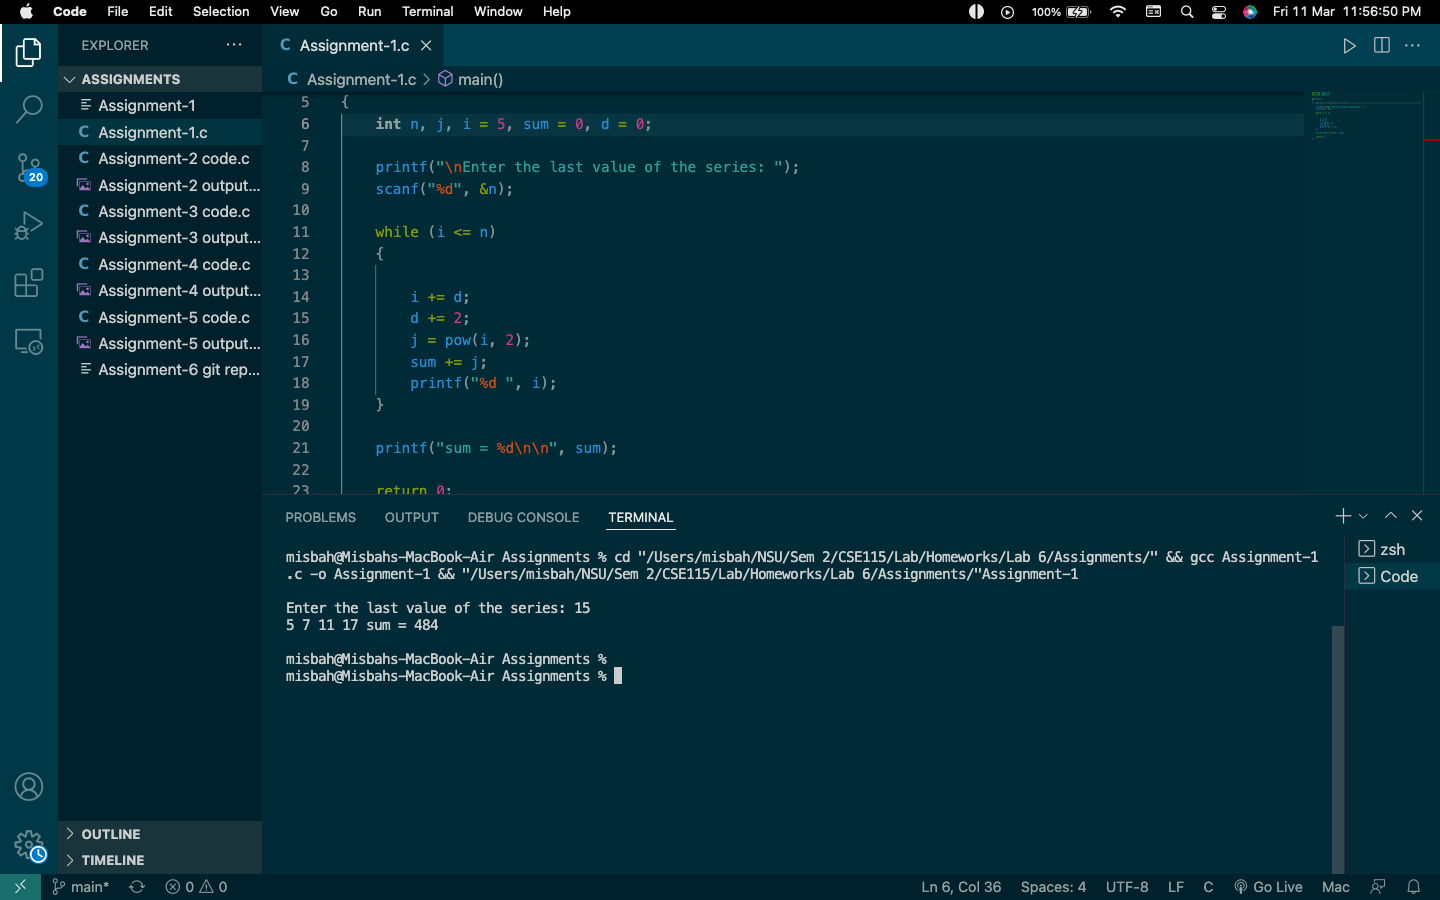
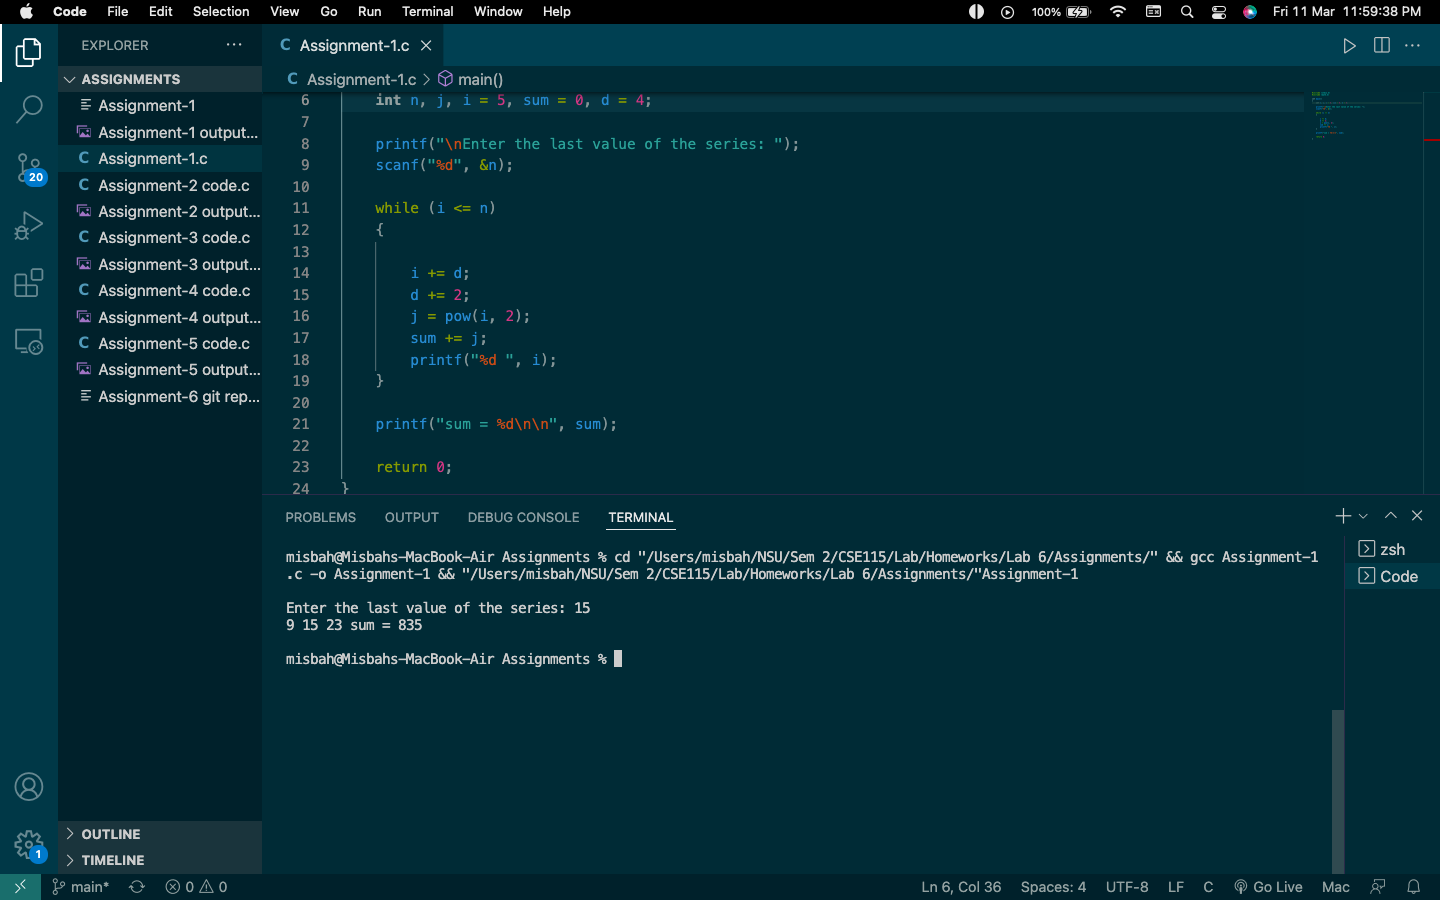
Assignment-1 fixed

diff --git a/Assignment-1.c b/Assignment-1.c
@@ -3,7 +3,7 @@
 
 int main()
 {
-    int n, j, i = 5, sum = 0, d = 2;
+    int n, j, i = 5, sum = 0, d = 4;
 
     printf("\nEnter the last value of the series: ");
     scanf("%d", &n);
